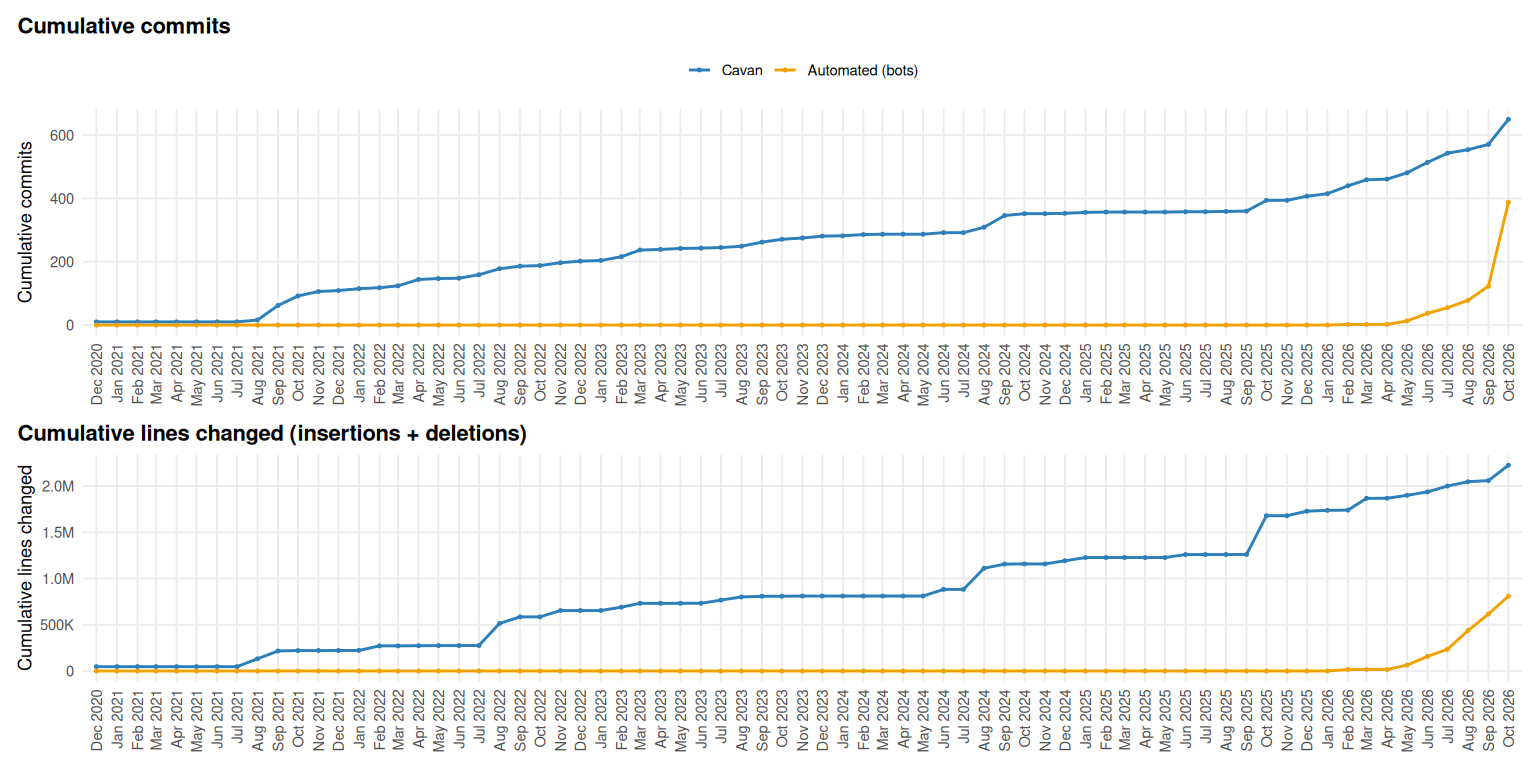
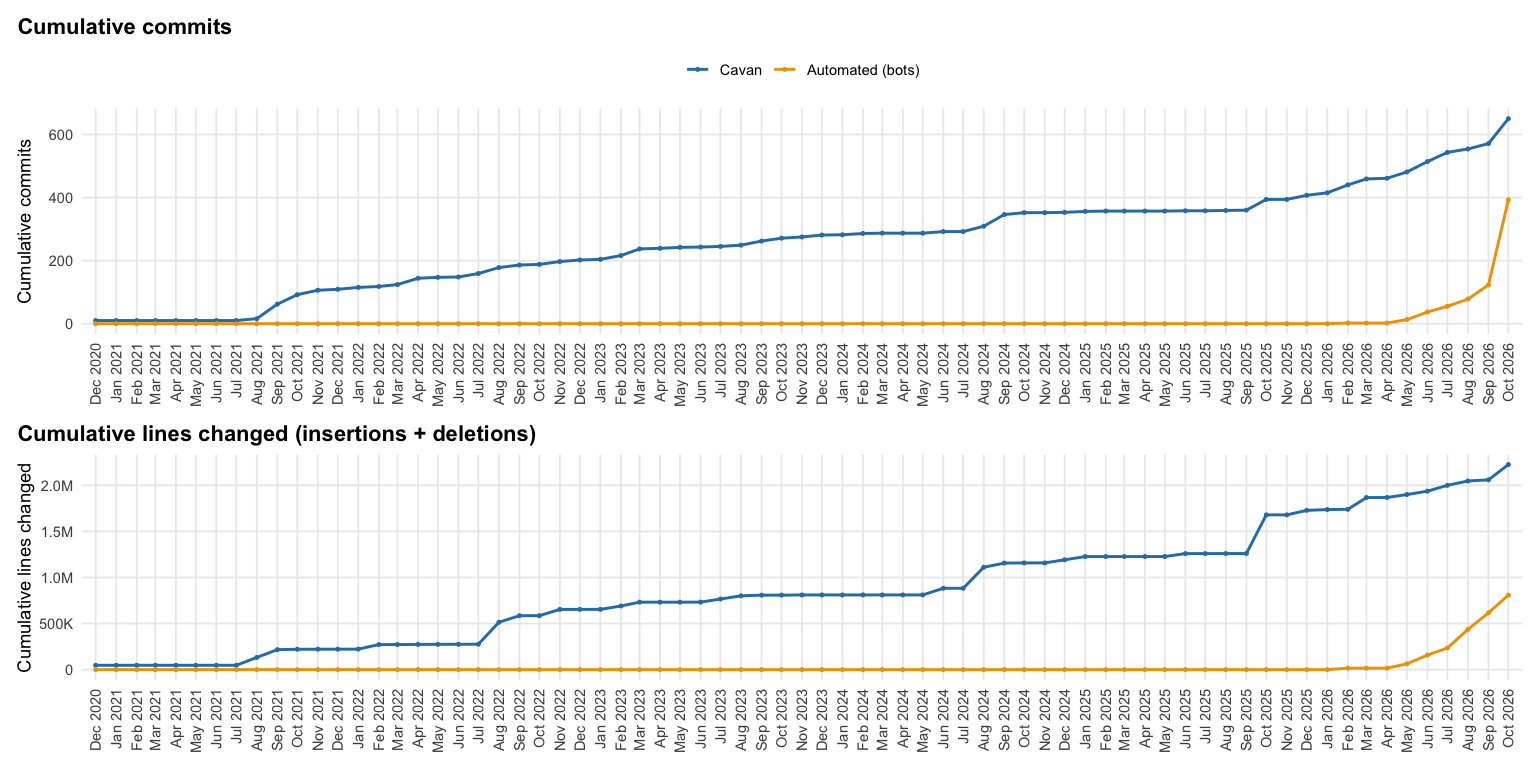
Sync README with site nav and workflows (#292)

diff --git a/README.md b/README.md
@@ -5,7 +5,8 @@
 
 <!-- badges: start -->
 
-![](https://github.com/cavandonohoe/cavandonohoe.github.io/actions/workflows/pages-rmarkdown.yml/badge.svg)
+[![Site
+build](https://github.com/cavandonohoe/cavandonohoe.github.io/actions/workflows/pages-rmarkdown.yml/badge.svg)](https://github.com/cavandonohoe/cavandonohoe.github.io/actions/workflows/pages-rmarkdown.yml)
 <!-- badges: end -->
 
 The goal of my website is to display some fun side projects I have been
@@ -15,54 +16,104 @@ a link than an attachment.
 
 Check out my website at <https://cavandonohoe.github.io>
 
-Highlights:
+## Pages
 
-- Data projects and visualizations (IMDb, box office, ratings)
-- Personal pages (blog, reunion, schedule)
-- CV and learning resources
+<!-- Keep these lists in the same order and wording as the navbar in _site.yml. -->
 
-Movies & data:
+### About
 
+- [About Me](https://cavandonohoe.github.io/about.html)
+- [Services](https://cavandonohoe.github.io/services.html)
+- [CV](https://cavandonohoe.github.io/cv.html)
+- [Publications](https://cavandonohoe.github.io/publications.html)
+
+### Movies & TV
+
+- [Exceptional IMDb
+  Episodes](https://cavandonohoe.github.io/imdb_exceptional_episodes.html)
 - [IMDb TV
   Series](https://cavandonohoe.github.io/imdb_top_250_tv_series.html)
-- [Best Picture vs Top 1000 Box
-  Office](https://cavandonohoe.github.io/best_pic_vs_top_1000.html)
-- [Top 250 Rated Movies with Rotten Tomato
+- [IMDb Rating Plot by Season and
+  Episode](https://cavandonohoe.github.io/imdb_rating_plot.html)
+- [Did They Quit While They Were
+  Ahead?](https://cavandonohoe.github.io/tv_decline_leaderboard.html)
+- [Top 250 IMDb Movies with Rotten Tomatoes
   Scores](https://cavandonohoe.github.io/top_250_imdb_with_rt.html)
-- [IMDb Series Rating
-  Plots](https://cavandonohoe.github.io/imdb_rating_plot.html)
 - [Best Picture
   Nominees](https://cavandonohoe.github.io/best_picture_nominees.html)
+- [Best Picture and Top 1000 Box
+  Office](https://cavandonohoe.github.io/best_pic_vs_top_1000.html)
 - [Director Box Office
   Trajectory](https://cavandonohoe.github.io/director_box_office_trajectory.html)
-- [Rent vs. Buy
-  Calculator](https://cavandonohoe.shinyapps.io/rent-vs-buy/)
-  ([source](https://github.com/cavandonohoe/rent-vs-buy))
+- [My IMDb Ratings](https://cavandonohoe.github.io/my_imdb.html)
+
+### Sports & Personal
+
+- [AVCA Men’s Volleyball
+  All-Americans](https://cavandonohoe.github.io/avca_all_americans.html)
+- [Jason, Owen, and Wyett’s Firefighter
+  Schedule](https://cavandonohoe.github.io/firefighter_schedule.html)
+- [Google Maps: Want To Go +
+  Favorites](https://cavandonohoe.github.io/google_maps_saved_places.html)
+- [Get Bloggy With It (travel
+  blog)](https://cavandonohoe.github.io/my_travels.html)
+- [TOHS Class of 2012
+  Reunion](https://cavandonohoe.github.io/tohs_reunion.html)
+
+### Visualizations
+
 - [Saved Podcast
   Episodes](https://cavandonohoe.shinyapps.io/podcast-dashboard/)
-- [Confederate Statue
-  Analysis](https://github.com/cavandonohoe/confederate_statues)
+  (Shiny)
+- [Detour
+  Finder](https://cavandonohoe.github.io/detour-finder/index.html)
+- [When Were Confederate Statues
+  Erected?](https://cavandonohoe.github.io/confederate_statues.html)
+- [Animated Procedural
+  Maze](https://cavandonohoe.github.io/maze-art.html)
 - [Sierpinski
   Triangle](https://cavandonohoe.github.io/sierpinski_triangle.html)
 - [Airplane Boarding
   Simulation](https://cavandonohoe.github.io/airplane_boarding.html)
 
-Personal:
+### Real Estate & Finance
 
-- [Kelly
-  Schedule](https://cavandonohoe.github.io/firefighter_schedule.html)
-- [TOHS Class of 2012
-  Reunion](https://cavandonohoe.github.io/tohs_reunion.html)
-- [Blog](https://cavandonohoe.github.io/my_travels.html)
+- [US Rental Investment
+  Markets](https://cavandonohoe.github.io/us_rental_markets.html)
+- [LA Neighborhoods: Price per Sq
+  Ft](https://cavandonohoe.github.io/la_real_estate.html)
+- [LA Housing Prices: Animated Heat
+  Map](https://cavandonohoe.github.io/la_housing_heatmap.html)
+- [Rent vs. Buy
+  Calculator](https://cavandonohoe.shinyapps.io/rent-vs-buy/) (Shiny,
+  [source](https://github.com/cavandonohoe/rent-vs-buy))
 
-Learning:
+### Data Science & Clinical
 
-- [Learn R (Course on Learning
-  R)](https://cavandonohoe.github.io/learn_r.html)
+- [SDTM with R](https://cavandonohoe.github.io/sdtm_with_r.html)
 
-CV:
+### Learn R
 
-- [CV](https://cavandonohoe.github.io/cv.html)
+- [Course Overview](https://cavandonohoe.github.io/learn_r.html)
+  1.  [Introduction to
+      R](https://cavandonohoe.github.io/intro_to_r.html)
+  2.  [Basic
+      Operations](https://cavandonohoe.github.io/basic_operations_r.html)
+  3.  [Data
+      Manipulation](https://cavandonohoe.github.io/data_manipulation_r.html)
+  4.  [Data
+      Visualization](https://cavandonohoe.github.io/data_visualization_r.html)
+  5.  [Statistics with
+      R](https://cavandonohoe.github.io/statistics_with_r.html)
+  6.  [Reproducible Reports with R
+      Markdown](https://cavandonohoe.github.io/rmarkdown_r.html)
+  7.  [Capstone Project](https://cavandonohoe.github.io/capstone_r.html)
+
+### Archive
+
+- [S&P 500 Perspective](https://cavandonohoe.github.io/sp500.html)
+- [Covid Cases: Then &
+  Now](https://cavandonohoe.github.io/covid_cases_nostalgia.html)
 
 ## Automation
 
@@ -79,7 +130,7 @@ manual is a click away on the Actions tab.
   (deploy is owned by `pages-branch-previews.yml` to avoid Pages
   deployment races).
 
-### Data refreshes (commits to `main`)
+### Scheduled refreshes (commit to `main`)
 
 - `update_imdb_ratings.yml` – weekly IMDb episode ratings refresh.
 - `update_top1000_box_office.yml` – monthly Best Picture + Top 1000 box
@@ -91,6 +142,35 @@ manual is a click away on the Actions tab.
 - `update_sp500.yml` – weekly VOO price refresh.
 - `update_us_rentals.yml` – monthly Zillow ZHVI/ZORI refresh.
 - `update_mymaps_export.yml` – weekly Google My Maps export.
+- `update_watched_episodes.yml` – weekly episode list for every rated
+  series in my IMDb export.
+- `update_imdb_exceptional_episodes.yml` – weekly Exceptional IMDb
+  Episodes refresh.
+- `update_confederate_statues_data.yml` – monthly Confederate statues
+  data refresh.
+- `update_movie_ranker_personal.yml` – every 6 hours, pulls my personal
+  Elo ratings from the movie-ranker Supabase project for My IMDb
+  Ratings.
+- `update_saved_episodes.yml` – daily Spotify saved-episodes refresh,
+  then redeploys the podcast dashboard on shinyapps.io.
+- `update_tohs_reunion.yml` – hourly TOHS reunion sheet snapshot.
+- `update_page_views.yml` – daily GA4 pull that reorders the homepage
+  Projects grid by traffic.
+- `shiny-traffic.yml` – weekly snapshot of shinyapps.io traffic for
+  every app on the account.
+- `year-in-review.yml` – daily current-year developer review, plus a Jan
+  1 snapshot of the year that just ended.
+- `activity-art.yml` – daily 30-day commit activity SVG.
+- `lately.yml` – daily summary of the last 30 days of my commits
+  (`data/lately.json`).
+- `personal-changelog.yml` – daily changelog of PRs merged in the last
+  30 days (`data/changelog.json`).
+- `weekly-wrapped.yml` – weekly 7-day activity snapshot
+  (`data/weekly/`).
+- `project-case-studies.yml` – on push, rebuilds project case-study
+  metadata (`data/project_case_studies.json`).
+- `refresh-commit-activity.yml` – weekly re-knit of this README’s
+  commit-activity charts.
 
 The uniform ones (`update_sp500`, `update_us_rentals`,
 `update_top250_with_rt`, `update_watched_episodes`) are thin callers of
@@ -115,17 +195,35 @@ fails the run instead of landing on `main`.
   with a score comment, plus a post-build audit of the production
   artifact after each successful main build.
 - `repo-size.yml` – weekly + on-PR repo-size report.
+- `scheduled-failure-alert.yml` – opens an issue when a scheduled
+  workflow fails and closes it on the next green run.
 
 ### Code quality
 
 - `lint.yml` – on-PR lintr scan of changed R/Rmd files.
 - `typos.yml` – on-PR spell check.
 - `pr-smoke.yml` – on-PR fast render of only the changed Rmds.
+- `test.yml` – R test suite (`scripts/run_tests.R`) on PRs and pushes.
+
+### Side apps
+
+- `movie-ranker-build.yml` – on-PR build of the Next.js movie-ranker
+  app.
+- `backfill-movie-ranker-posters.yml` – weekly TMDB poster backfill for
+  new movie-ranker titles.
+- `ping-movie-ranker-supabase.yml` – weekly read query so the free-tier
+  Supabase project never auto-pauses.
+- `tohs-apps-script.yml` – validates and deploys the TOHS reunion Google
+  Apps Script.
 
 ### Repo hygiene
 
 - `.github/dependabot.yml` – weekly bump of pinned GitHub Actions.
+- `dependabot-automerge.yml` – squash-merges minor/patch Dependabot PRs
+  once all other checks pass.
 - `labeler.yml` – auto-label PRs by changed paths.
+- `prune-previews.yml` – weekly cleanup of stale PR preview deploys.
+- `data-question.yml` – acknowledges issues labeled `data-question`.
 
 ## Activity over time
 
@@ -138,8 +236,8 @@ above. Regenerated each time `README.Rmd` is knit.
 
 <img src="images/readme/commit-activity-cumulative-1.png" alt="Two cumulative line charts showing total commits and total lines changed (insertions + deletions) over time, split by Cavan's own commits vs. scheduled-bot commits."  />
 
-*1,038 commits since Dec 2020 — 650 by me, 388 by scheduled bots —
-touching 3,033,857 lines in total.*
+*1,043 commits from Dec 2020 to Oct 2026 (650 by me, 393 by scheduled
+bots), touching 3,034,159 lines in total.*
 
 ## Setup and Local Development
 
@@ -203,6 +301,10 @@ Rscript tests/test_chase_parser.R
 - `.github/workflows/`: GitHub Actions workflows for CI/CD
 - `data/`: Data files used by various pages
 - `scripts/`: Utility scripts (e.g., ensuring gs4 guards)
+- `tests/`: R tests run by `test.yml`
+- `podcast-dashboard/`, `movie-ranker/`, `detour-finder/`,
+  `streaming-history/`: self-contained side apps
+- `tools/tohs-apps-script/`: Google Apps Script for the TOHS reunion
 
 ### Deployment
 
